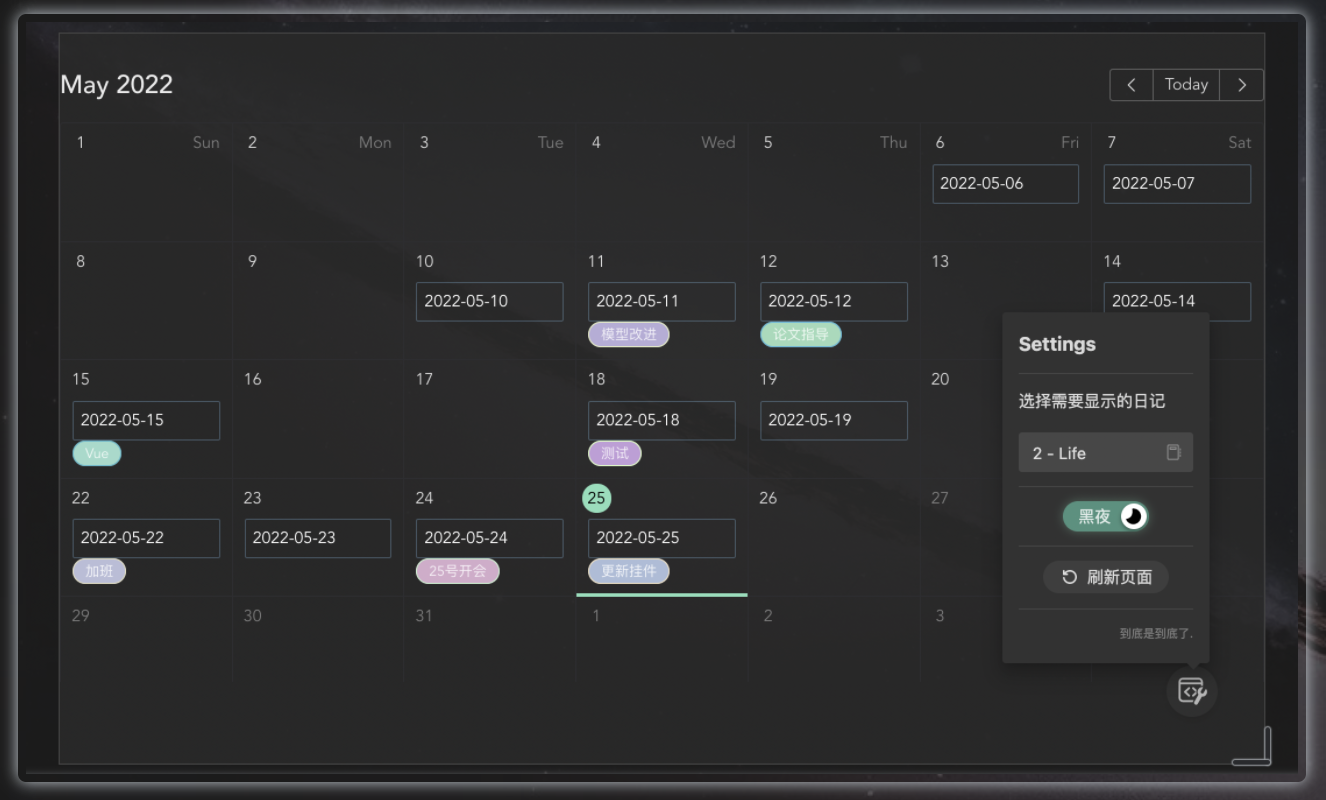
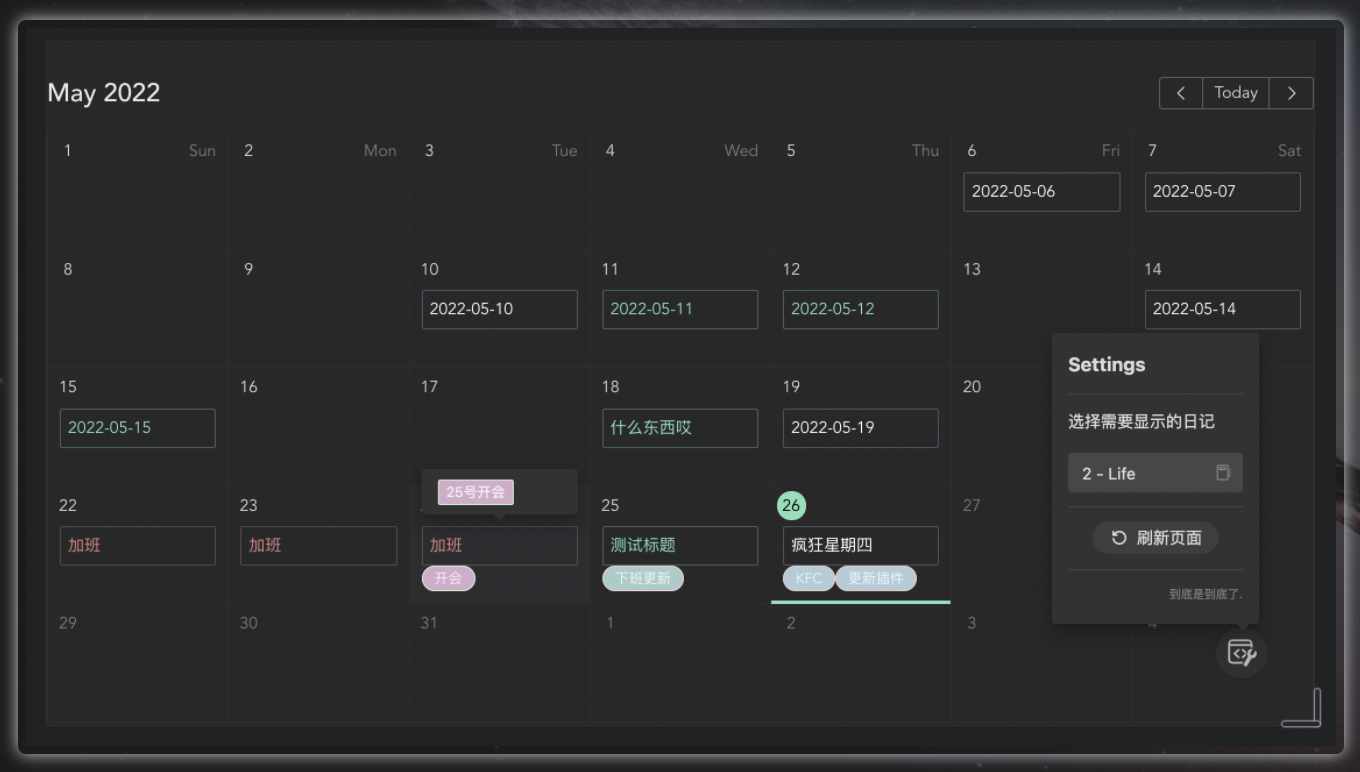
add dairy event.

diff --git a/src/components/ShowDiary.vue b/src/components/ShowDiary.vue
@@ -1,9 +1,10 @@
 <script>
 import { h, ref, inject } from "vue"
 import{ useMessage} from "naive-ui"
-import {NTag, NPopover, NEllipsis} from 'naive-ui'
-import ApiFunc from '../utils/request.js'
-import randTools from '../utils/randomTools.js'
+import {NTag, NPopover, NEllipsis, NTimeline, NTimelineItem} from 'naive-ui'
+import ApiFunc from '../utils/request.js';
+import randTools from '../utils/randomTools.js';
+import dateTools from '../utils/dateTools.js';
 
 // TODO: 增加笔记检索缓存
 // TODO: 增加标签
@@ -25,15 +26,17 @@ export default {
     },
     setup(props) {
         window.$message = useMessage() // 全局消息提示 for request.js
-
+		console.log('test->search_someDiary:')
         // 需要用这种方式来获取axios的值
         // 动态加载数据，先载入ref，之后promise结束后更新值
         const note_exist = ref(false);
         const note_id = ref('0');
         const note_title = ref('null');
         const note_tags = ref([]);
-        const random_color = ref('#000000');
+        const rcolor_subtitle = ref('#000000');
+		const rcolor_tag = ref('#000000');
 		const note_subtitle = ref([]);
+		const note_event = ref(false);
         (async () => {
             const check_result = await checkExistNote(props.show_note_index);
             note_exist.value = check_result["exist"];
@@ -41,7 +44,10 @@ export default {
             note_id.value = check_result["id"];
             note_tags.value = check_result["tags"];
 			note_subtitle.value = check_result["subtitile"];
-            random_color.value = randTools.randomColor(note_tags.value);
+			note_event.value = check_result["event"];
+            rcolor_tag.value = randTools.randomColor(note_tags.value);
+			rcolor_subtitle.value = randTools.randomColor(note_subtitle.value);
+			
         })();
 
         function renderAllTemplate(){
@@ -49,10 +55,11 @@ export default {
                 'ul',{class:"tag-ul"},{default:()=>[
 				h(NPopover,{
 						width: 'trigger',
-						trigger: "hover"
+						trigger: "hover",
+						class: "tag-full",
 					},
 					{trigger:()=>h(NTag, {
-								type: note_tags.value.length>0?"success":"info",
+								type: note_event.value?"error":note_tags.value.length>0?"success":"info",
 								size:"large",
 								class:"tag-full",
 
@@ -63,10 +70,9 @@ export default {
 					default:()=>[
 						(note_tags.value.length>0)&&
 							note_tags.value.map(item=>h(NTag,{
-								round:true,
 								size:'small',
-								color:{'color':random_color.value,
-										'borderColor': randTools.colorReverse(random_color.value)},
+								color:{'color':rcolor_tag.value,
+										'borderColor': randTools.colorReverse(rcolor_tag.value)},
 						},{default:()=>[item]})),
 						(note_tags.value.length==0)&&h('p',{},{default:()=>["空空如也..."]})
 					]}
@@ -76,8 +82,8 @@ export default {
                 note_subtitle.value.map(item=>h(NTag,{
                     round:true,
                     size:'small',
-                    color:{'color':random_color.value,
-                            'borderColor': randTools.colorReverse(random_color.value)},
+                    color:{'color':rcolor_subtitle.value,
+                            'borderColor': randTools.colorReverse(rcolor_subtitle.value)},
                 },{default:()=>[item]}))
                 ]}
             )
@@ -178,16 +184,18 @@ async function checkExistNote(check_data){
 	let search_tag = "SELECT tag as content, "+
 				"CASE WHEN subtype IS '' THEN 'tag' ELSE subtype END AS type, "+
 				"id FROM blocks WHERE tag!='' "+
-				"AND root_id IN ("+search_daily_id+")"+
+				"AND root_id IN ("+search_daily_id+") "+
 				"LIMIT 5"
 
 	let search_h1 = "SELECT content as content, subtype as type, id FROM blocks WHERE "+
-					"subtype='h1'"+
-						"AND root_id IN ("+search_daily_id+")"+
-						"LIMIT 1"
+					"content!='' "+
+					"AND subtype='h1' "+
+					"AND root_id IN ("+search_daily_id+") "+
+					"LIMIT 1"
 	let search_h2 = "SELECT content as content, subtype as type, id FROM blocks WHERE "+
-				"subtype='h2'"+
-					"AND root_id IN ("+search_daily_id+")"+
+					"content!='' "+
+					"AND subtype='h2' "+
+					"AND root_id IN ("+search_daily_id+") "+
 					"LIMIT 3"
 
 	concat_sql = "SELECT * FROM ("+search_title+
@@ -231,9 +239,37 @@ async function checkExistNote(check_data){
 			"subtitile": note_subtitle,
 		}
 	})
+	let diary_event = false;
+	if(box_id!='0' && note_info['show_title'].replace(/[^0-9]/g, '')!=y+m+d && note_info['show_title']!=''){
+		diary_event = await searchSameDiary(y+'-'+m+'-'+d, note_info['show_title'], box_id);
+		console.log("try got event,", diary_event);
+	}
+	note_info['event'] = diary_event;
     return note_info;
 
 }
+
+async function searchSameDiary(search_time, search_title, box_id){
+	let result = false
+	let yesterday = dateTools.getAroundDate(search_time, -1, '_');
+	let tomorrow = dateTools.getAroundDate(search_time, 1, '_');
+	let sql_same = "SELECT id FROM blocks WHERE subtype='h1' "+
+					"AND content='"+search_title+"' "+
+					"AND root_id IN ("+
+					"SELECT id FROM blocks WHERE "+
+					"(ial LIKE '%title=_"+yesterday+"_%' "+
+					"OR ial LIKE '%title=_"+tomorrow+"_%') "+
+					"AND box = '"+box_id+"' "+
+					"LIMIT 2)"
+	result = await ApiFunc.getNoteByTitle({"stmt": sql_same}).then((res) =>{
+ 		if(res['data'].length > 0){
+			 return true;
+		 }
+		 return false;
+	})
+	return result;
+}
+
 
 function getSyLabel(content){
     if(content == null) return "";
@@ -264,12 +300,14 @@ function getSyLabel(content){
     /*justify-content: flex-start;
     align-items: center; */
     flex-wrap: wrap;
-    margin: 0;
-    padding: 0;
+	width: 100%;
+    margin: 0px;
+    padding: 0px;
     min-width: 80px;
 }
 .tag-full{
     width: 100%;
+	margin: 0px;
 	font-size: 14px;
 }
 </style>

diff --git a/src/utils/dateTools.js b/src/utils/dateTools.js
@@ -1,7 +1,9 @@
+import { isYesterday, addDays, isTomorrow } from 'date-fns'
 let dateTools = {}
 
 dateTools.getNowDate = getNowDate;
 dateTools.formatDate = formatDate;
+dateTools.getAroundDate = getAroundDate;
 
 export default dateTools;
 
@@ -28,7 +30,7 @@ function getNowDate(connect_str='-'){
     return result;
 }
 
-function formatDate(year, month, day, hour=-1, minute=-1, second=-1, connect_str='-'){
+function formatDate(year, month, day, connect_str='-', hour=-1, minute=-1, second=-1){
     if(month<10){
         month = "0"+month;
     }
@@ -37,7 +39,7 @@ function formatDate(year, month, day, hour=-1, minute=-1, second=-1, connect_str
     }
     let _specific_time = ""
 
-    if(hour > 0){
+    if(second > 0){
         if(hour<10){
             hour = "0"+hour;
         }
@@ -50,4 +52,13 @@ function formatDate(year, month, day, hour=-1, minute=-1, second=-1, connect_str
         _specific_time =' '+hour+":"+minute+":"+second;
     }
     return year+connect_str+month+connect_str+day + _specific_time;
+}
+
+function getAroundDate(_date, gap, connect_str='-'){
+
+	if(typeof(_date) == "string"){
+		_date = new Date(_date);
+	}
+	let new_date = addDays(_date.getTime(), gap);
+	return formatDate(new_date.getFullYear(), new_date.getMonth()+1, new_date.getDate(), connect_str=connect_str);
 }

diff --git a/src/components/DailyViews.vue b/src/components/DailyViews.vue
@@ -90,7 +90,15 @@ provide("reload", reload);
 
 </script>
 
+
 <template>
+
+
+  <div style="overflow: auto">
+	
+  </div>
+
+
 
     <calender-bar @setRootNoteId="checkRootNoteId" @setThemeValue="checkThemeValue"/>
     <n-calendar
@@ -102,19 +110,24 @@ provide("reload", reload);
         @update:value="handleUpdateValue">
         <!-- 这里我提供了两种方式解决 v-for 循环生成组件后续传值的问题，其一是通过不同的key 传值，这样由于载入不同的key就可以获取不同的组件从而强制加载，
             其二是 通过 reload函数， 通过v-if 判断然后刷新组件，子组件通过watch 传入的root_note_id 是否发生改变而刷新组件。-->
-        <show-diary class="diary-layout" :show_note_index="organSearch([year, month, date, root_note_id])" :key="'-'+year+'-'+month+'-'+date" v-if="isRouterAlive"> </show-diary>
-    </n-calendar>
+        <show-diary 
+			class="diary-layout" 
+			:show_note_index="organSearch([year, month, date, root_note_id])" 
+			:key="'-'+year+'-'+month+'-'+date" v-if="isRouterAlive"> </show-diary>
+	</n-calendar>
 </template>
 
 <style scoped>
 .diary-layout {
-
+	
 }
 a {
   color: #42b983;
 }
 .calender-layout {
+
     padding-bottom: 2em;
+	
 }
 .main-layout {
     min-width: 750px;

diff --git a/src/components/CalenderBar.vue b/src/components/CalenderBar.vue
@@ -276,27 +276,6 @@ const clickOutside = () => {
         </n-list-item>
         <n-list-item>
             <n-space justify="center">
-            <n-switch
-                :value='theme_value'
-                :on-update:value="changeThemes"
-                size="large">
-                <template #checked-icon>
-                    <n-icon :component="WeatherMoon16Filled" />
-                </template>
-                <template #unchecked-icon>
-                    <n-icon :component="WeatherSunny28Filled" />
-                </template>
-                <template #checked>
-                    黑夜
-                </template>
-                <template #unchecked>
-                明亮
-                </template>
-            </n-switch>
-            </n-space>
-        </n-list-item>
-        <n-list-item>
-            <n-space justify="center">
             <n-button tertiary round :on-click="refreshComps" size="small">
                 <template #icon>
                     <n-icon>

diff --git a/public/README.md b/public/README.md
@@ -5,30 +5,32 @@
 
 ### 功能
 * 显示对应笔记下的日记。
-* 检索日记中的标签并显示前三个标签。
+* 检索日记中的标签和标题，并选择性展示标题。
 
-#### v0.07 
+#### v0.1.0
+
+
+#### v0.0.1-0.0.9
+* 标记特殊日记，相邻日记标题相同视为同一事件
+
+* 移除手动切换主题按钮，点击刷新同时会刷新主题
+
 * 优化内容显示
 
-#### v0.06
 * 丰富每日显示内容，现在主要显示h1内容，副显示3个h2内容，弹出框显示tag标签。
 * 优化显示问题
 
-#### v0.05
 * 改进数据存储(存储在组件的attrs中,可能有bug)
 * 修复linux点击无法跳转问题(感谢leolee9086)
 * 优化黑夜模式UI显示
 
-#### v0.04
 * 跟随主题调整插件颜色
 * 引入新的菜单（应该还好）
 
-#### v0.03
 * 优化检索标签的方法
 * 改进查找日记的格式，现在可以是：年[字符]月[字符]日
 
-#### v0.02
-修复点击闪烁问题
+* 修复点击闪烁问题
 
 > 挂件里有人写过了 https://github.com/langyamu/siyuan-calendar
 > 但是我实在是没找到那个修改路径在哪....
